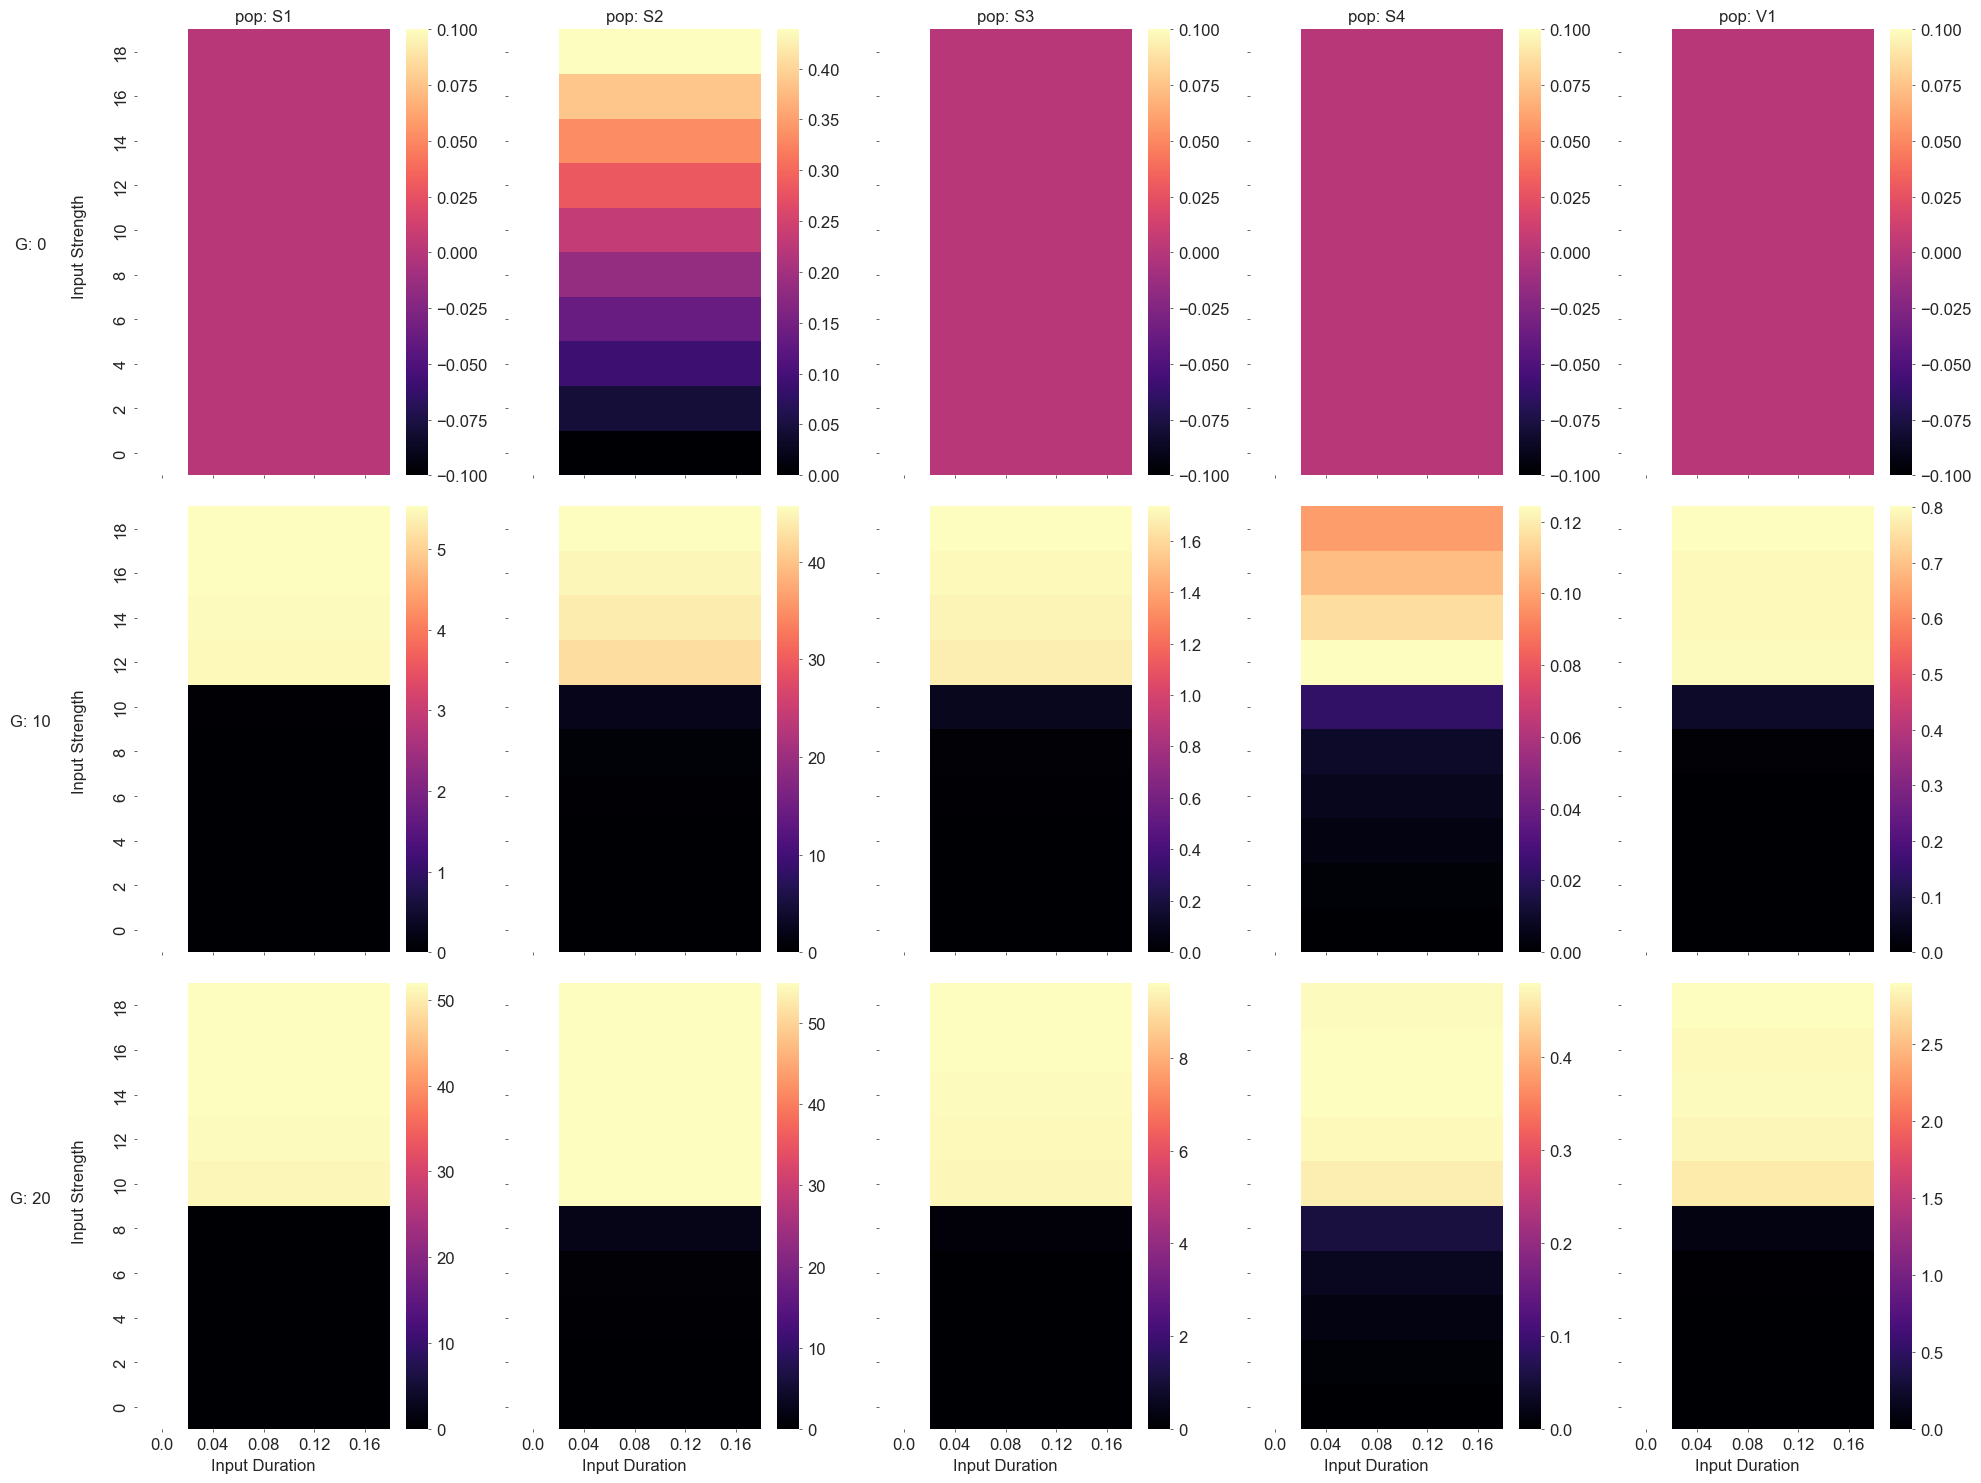
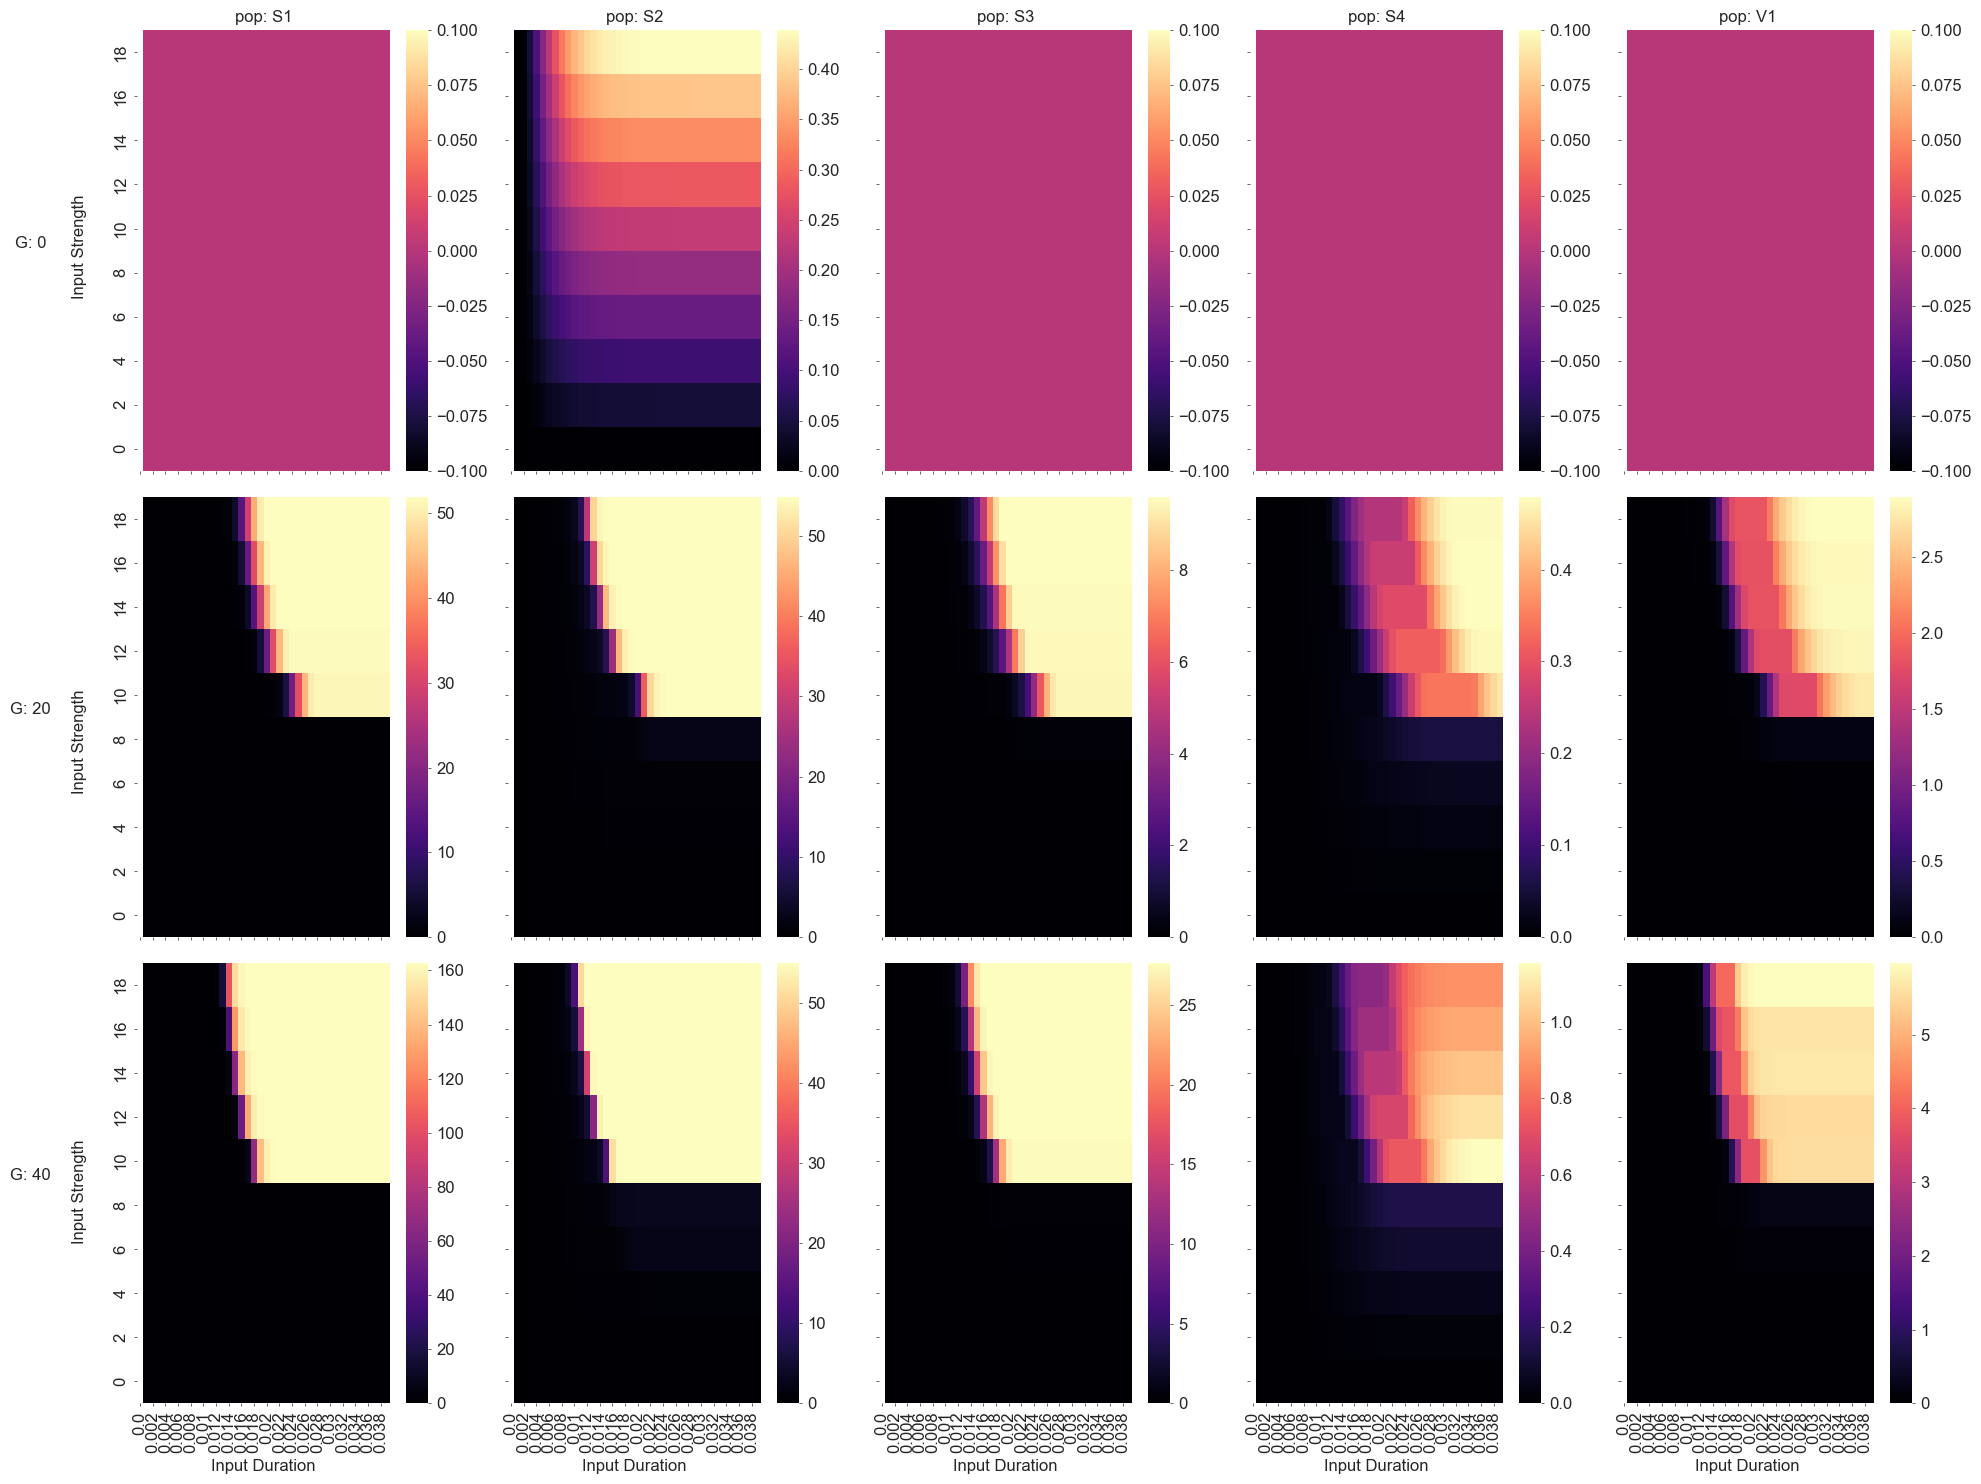
baseline & longterm averaged

diff --git a/Analysis/plot_results.py b/Analysis/plot_results.py
@@ -35,9 +35,9 @@ figure_dir = "../Figures"
 # %%
 
 # read in data
-input_durations = [0.02] #np.arange(0, 0.04, 0.001) # in sec 
-input_strengths = [12] #np.arange(0, 20, 2)
-coupling_strengths = [0, 20, 40, 60] #np.arange(0, 100, 20)
+input_durations = np.arange(0.15, 0.6, 0.05) #  np.arange(0, 0.04, 0.001) # in sec 
+input_strengths = np.arange(0, 20, 5)
+coupling_strengths = np.arange(0, 100, 40)
 step_size = 0.001
 sample_delay = 0.5
 input_onset = 0.501
@@ -63,6 +63,7 @@ for d in input_durations:
             # LONG TERM (sample for 100ms starting at 0.5 sec after offset)
             start_sample = int((input_onset+d+sample_delay)/step_size)
             stop_sample = int(start_sample + sample_dur/step_size)
+            df['rate_longterm'] = data_df.iloc[start_sample:stop_sample].mean()
             df['minRate_longterm'] = data_df.iloc[start_sample:stop_sample].min()
             df['maxRate_longterm'] = data_df.iloc[start_sample:stop_sample].max()
             df['diffRate_longterm'] = df['maxRate_longterm'] - df['minRate_longterm']
@@ -78,15 +79,11 @@ for d in input_durations:
             offset = 0.1 # time between baseline sampling and start of input 
             baseline_start = int((input_onset - (sample_dur+offset))/step_size) 
             baseline_stop = int(baseline_start + sample_dur/step_size)
-            df['minRate_baseline'] = data_df.iloc[baseline_start:baseline_stop].min()
-            df['maxRate_baseline'] = data_df.iloc[baseline_start:baseline_stop].max()
-            df['diffRate_baseline'] = df['maxRate_baseline'] - df['minRate_baseline']
-            plt.plot(df['diffRate_baseline'], label= f'coupling{g}')
-            plt.legend()
+            df['rate_baseline'] = data_df.iloc[baseline_start:baseline_stop].mean()
             
             # long term to baseline comparison (here we don't take the diffRate because the baseline does not 
             # oscillate and we want to compare if the long term activity is still larger than baseline)
-            df['longtermVSbaseline'] = df['maxRate_longterm'] - df['minRate_baseline']
+            df['longtermVSbaseline'] = df['rate_longterm'] - df['rate_baseline']
             
             # set info in data frame
             df['population'] = df.index.values
@@ -153,7 +150,7 @@ plt.show()
 
 rate_measure = 'diffRate_duringInput'
 coupling_strengths = [0, 20, 40]
-input_duration = 0.02
+input_duration = 0.14
 input_strengths = [10, 12, 14]
 populations = np.array(['E1'])#,  'E2', 'E3', 'E4']) 
 #populations = np.array(['P1', 'P2', 'P3', 'P4']) 
@@ -201,8 +198,8 @@ sns.heatmap(data_heatmap, cmap='magma')
     - subplot rows: coupling strengths
 '''
 
-rate_measure = 'diffRate_baseline'
-coupling_strengths = [0, 20, 40]
+rate_measure = 'longtermVSbaseline'
+coupling_strengths = [0, 40, 80]
 populations = np.array(['E1', 'E2', 'E3', 'E4']) 
 #populations = np.array(['P1', 'P2', 'P3', 'P4']) 
 #populations = np.array(['S1', 'S2', 'S3', 'S4', 'V1']) 
@@ -267,10 +264,10 @@ plt.show()
 '''
 
 # For this I need a dataframe with all timepoints
-coupling_strength = [0, 20, 40, 60]
-population = 'E1'
-input_duration = 0.02
-input_strength = 12
+coupling_strength = [0, 40, 80]
+population = 'P1'
+input_duration = 0.15
+input_strength = 15
 line_df = time_data_df.loc[time_data_df['coupling_strength'].isin(coupling_strength)]
 line_df = line_df[line_df['population']==population]
 line_df = line_df[line_df['InputDuration']==input_duration]
@@ -279,7 +276,7 @@ plt.title(f'Population:{population} Input Duration:{input_duration} Input Streng
 sns.lineplot(data=line_df, x='time', y='rate', hue='coupling_strength')
 
 figure_name = f'population{population}_inputDur{input_duration}_inputStrength{input_strength}.png'
-plt.savefig(os.path.join(figure_dir, figure_name), bbox_inches='tight')
+#plt.savefig(os.path.join(figure_dir, figure_name), bbox_inches='tight')
 
 # %%
 populations = np.array(['E1', 'E2', 'E3', 'E4', 'P1', 'P2', 'P3', 'P4', 'S1', 'S2', 'S3', 'S4', 'V1'])#, 'V2', 'V3', 'V4'])

diff --git a/simulation_main.py b/simulation_main.py
@@ -115,7 +115,7 @@ def main():
     plot = False
 
     # set coupling strengths, step size and cortex type (visual or somato)
-    coupling_strengths = np.arange(0, 100, 20)
+    coupling_strengths = np.arange(0, 100, 40)
     step_size = 0.001 
     simulation_time = 1.5
     cortex_type = 'somato'
@@ -124,8 +124,8 @@ def main():
     # define input
     input_type = "step" # other options are "baseline"
     input_onset = 0.501 # in sec
-    input_durations = np.arange(0.04, 0.2, 0.1) # in sec 
-    input_strengths = np.arange(0, 20, 2)
+    input_durations = np.arange(0.15, 0.6, 0.05) # in sec 
+    input_strengths = np.arange(0, 20, 5)
 
     for d in input_durations:
         print('Input duration:', d)